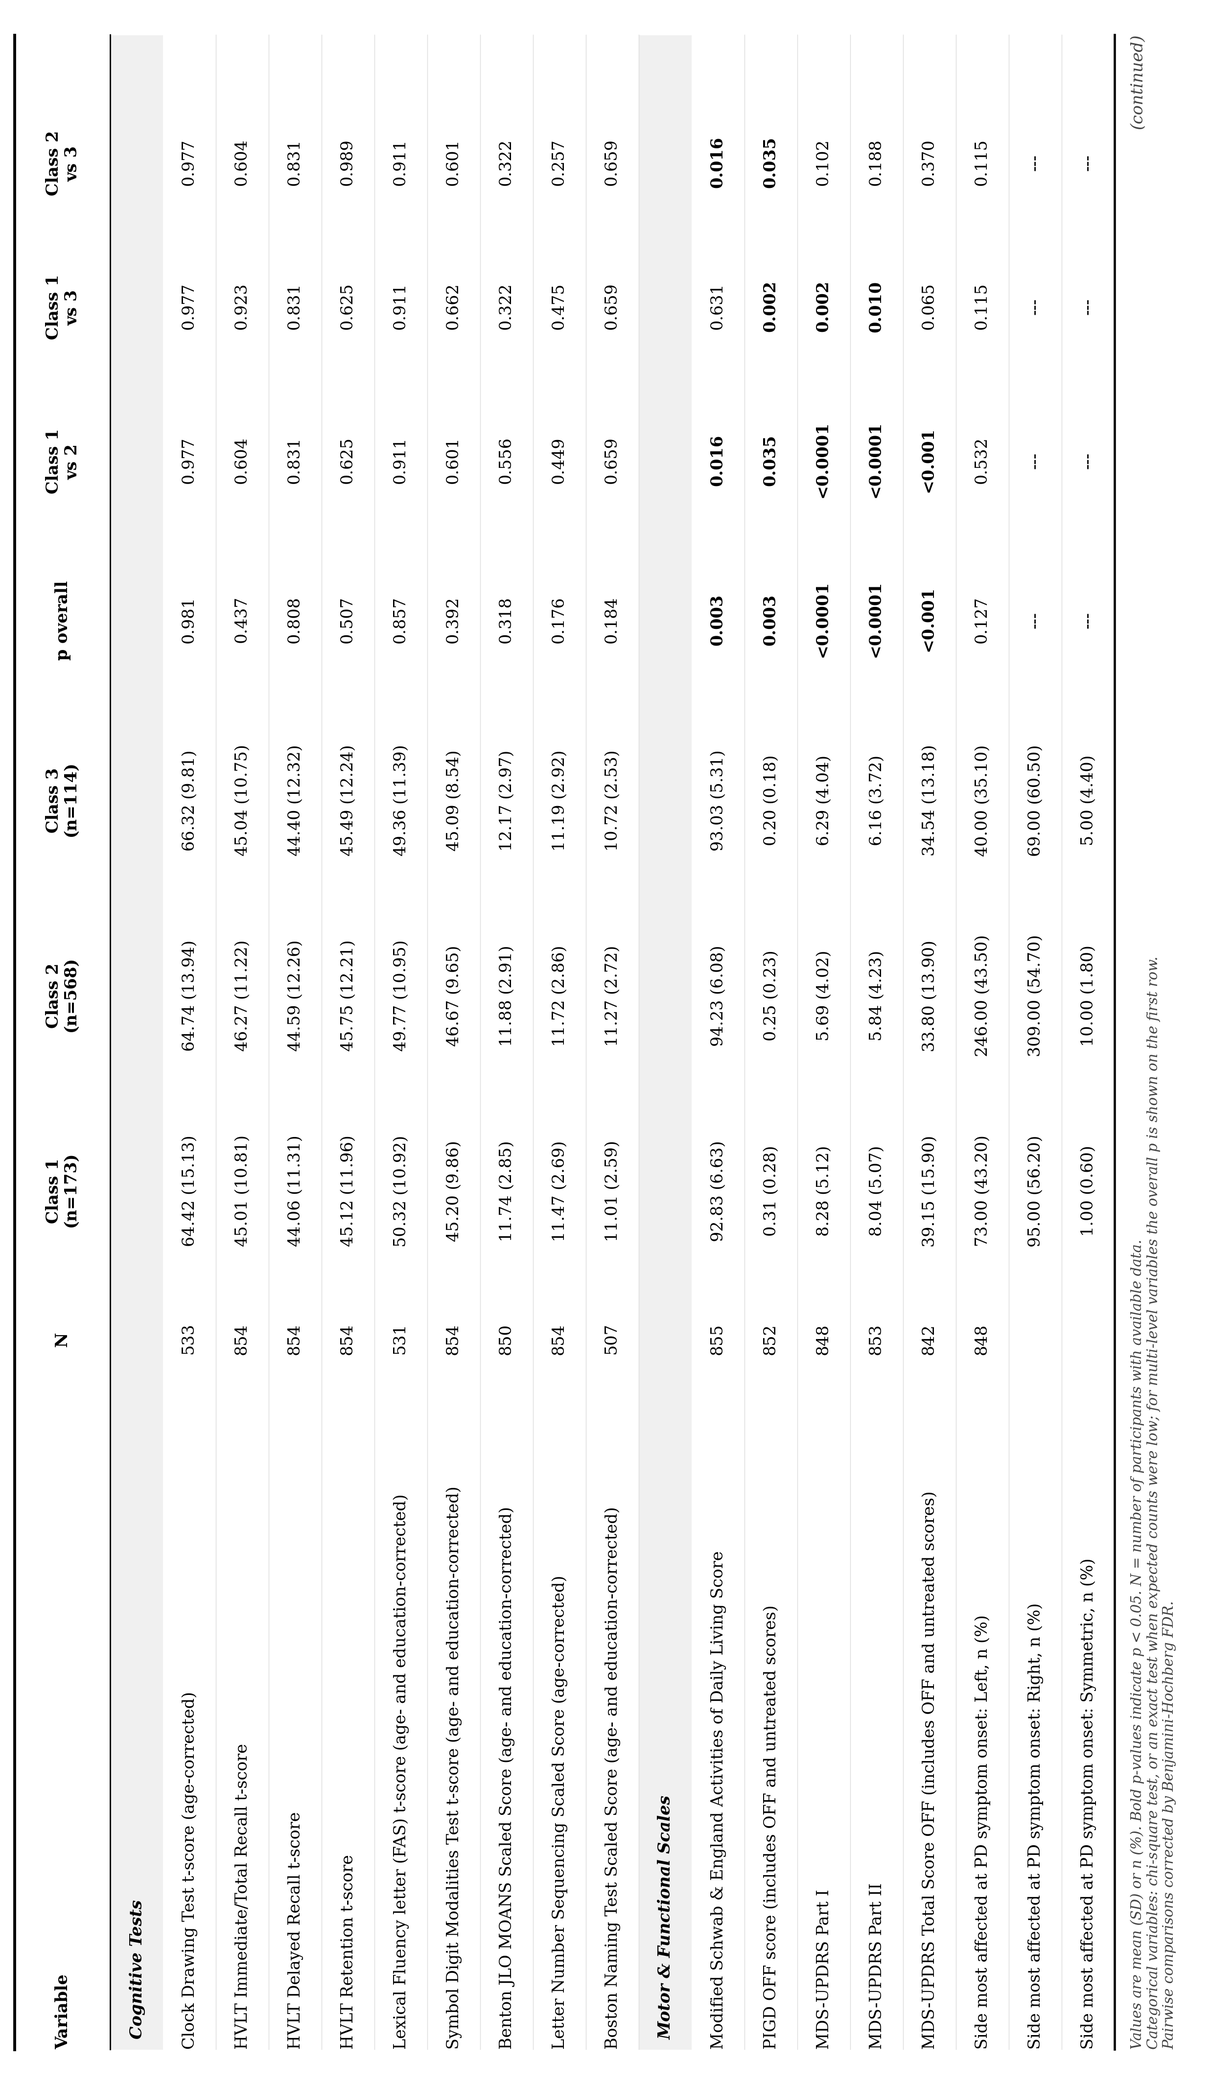
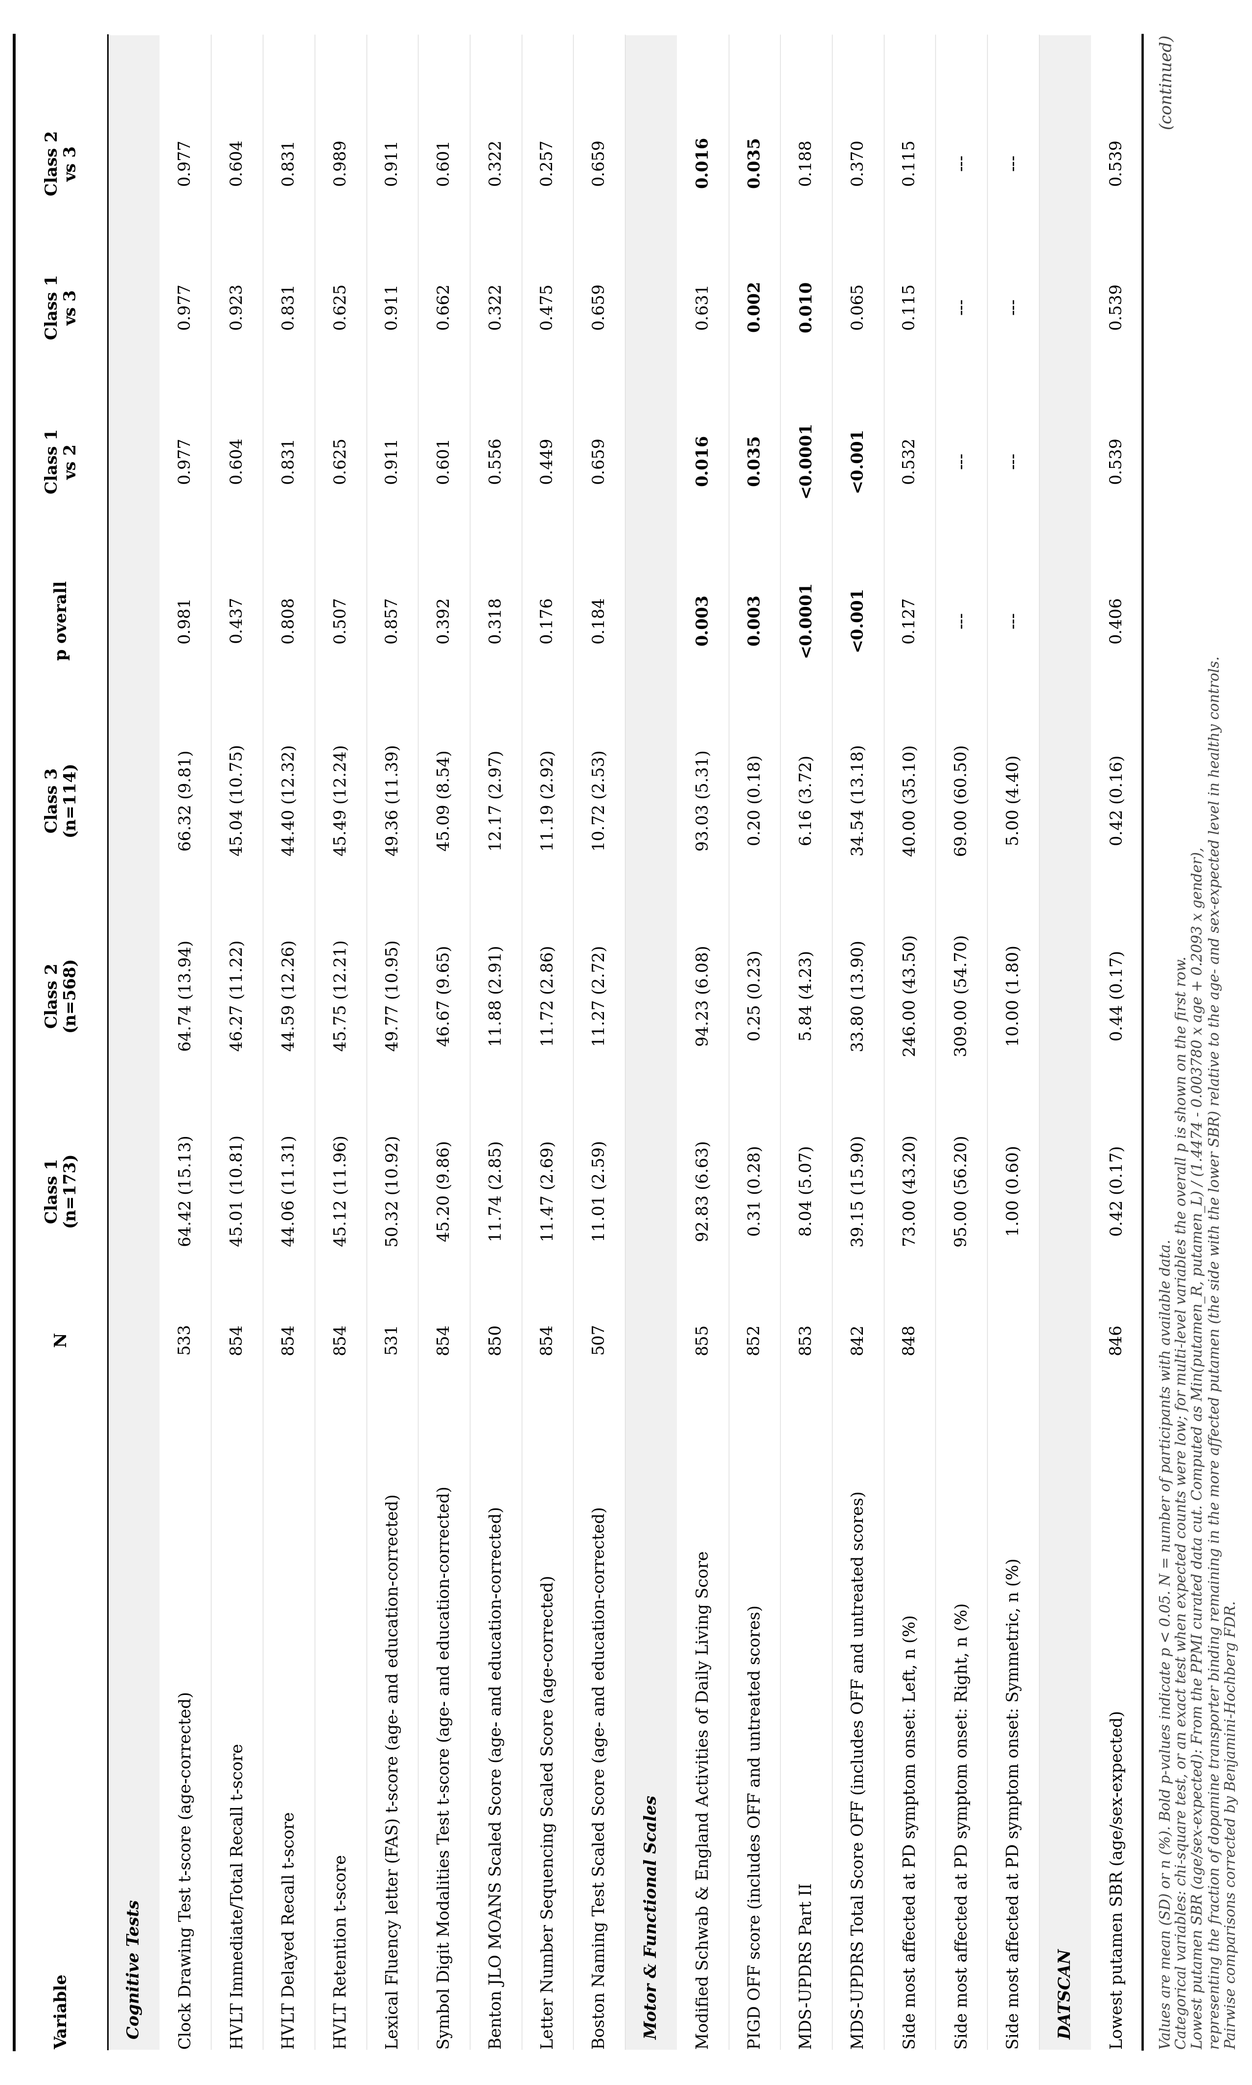
update baseline section, lcmm results, figure1

diff --git a/index.md b/index.md
@@ -22,7 +22,7 @@ Finally, we relate these emergent clinical phenotypes to targeted biological met
 
 <br/><br/>
 
-```{figure} figure.png
+```{figure} Figure.png
 :name: figure-main
 :alt: Multi-panel figure supporting the main findings
 
@@ -37,7 +37,7 @@ Finally, we relate these emergent clinical phenotypes to targeted biological met
 <br/><br/>
 
 ## Latent Class Identification and Trajectories
-Multivariate LCMM identified a three-class solution as optimal based on the lowest BIC, mean posterior probabilities, class size, and relative entropy criteria [Table 1](#main-model-selection), full methodological details are provided in [Supp.Methodology](#supp-methodology) : a Stable High-Burden class (Class 1, n = 173, 20.2%), a Low-Burden class (Class 2, n = 568, 66.4%), and an Increasing-Burden class (Class 3, n = 114, 13.3%). Observed mean trajectories are shown in [Figure 1 (A-D)](#figure-main). Class 1 maintained stably elevated REM Sleep Behavior Disorder Screening Questionnaire (RBDSQ) scores above the diagnostic cutoff (≥5) throughout follow-up; Class 2 remained consistently below the cutoff; Class 3 crossed the threshold at approximately Year 2 and approached Class 1 levels by Year 5. Montreal Cognitive Assessment (MoCA) declined in Class 3 from Year 3–4 onward while remaining stable in Classes 1 and 2; orthostatic systolic blood pressure drop (ΔSBP) and Movement Disorder Society Unified Parkinson's Disease Rating Scale Part III (UPDRS Part III) increased progressively across all classes, most prominently in Class 1. RBDSQ accounted for the largest proportion of between-class variance (39.1%), substantially exceeding ΔSBP (0.74%), MoCA (0.50%), and UPDRS-III (0.20%); the multivariate class structure showed strong agreement with the RBDSQ-only solution (ARI = 0.96; Cramér's V = 0.95) [Table S1](#supp-rbd-model-selection-2dp) [Table S2](#supp-rbd-class-comparison). Baseline characteristics are descriped in [Supp.Baseline](#supp-baseline).
+Multivariate LCMM identified a three-class solution as optimal based on the lowest BIC, mean posterior probabilities, class size, and relative entropy criteria ([Table 1](#main-model-selection)), full methodological details are provided in [Supp.Methodology](#supp-methodology) : a Stable High-Burden class (Class 1, n = 173, 20.2%), a Low-Burden class (Class 2, n = 568, 66.4%), and an Increasing-Burden class (Class 3, n = 114, 13.3%). Observed mean trajectories are shown in [Figure 1 (A-D)](#figure-main). Class 1 started with the highest REM Sleep Behavior Disorder Screening Questionnaire (RBDSQ) scores, which showed a slight decline by Year 5. Class 2 remained consistently below the cutoff throughout follow-up. Class 3 crossed the cutoff around Year 2 and reached levels comparable to Class 1 by Year 5. For orthostatic systolic blood pressure drop (ΔSBP), Classes 1 and 3 showed increases in later years, while Class 2 remained low. Movement Disorder Society–Unified Parkinson’s Disease Rating Scale Part III (UPDRS Part III) scores increased progressively in all classes, with the steepest rise observed in Class 1. Montreal Cognitive Assessment (MoCA) scores declined over time in Classes 1 and 3, eventually falling below the cutoff, whereas Class 2 remained relatively stable. RBDSQ accounted for the largest variance proportion(39.1%), substantially exceeding ΔSBP (0.74%), MoCA (0.50%), and UPDRS-III (0.20%); the multivariate class structure showed strong agreement with the RBDSQ-only solution (ARI = 0.96; Cramér's V = 0.95) ([Table S1](#supp-rbd-model-selection-2dp); [Table S2](#supp-rbd-class-comparison)). Baseline characteristics are descriped in [Supp.Baseline](#supp-baseline).
 
 
 <br/><br/>
@@ -59,11 +59,11 @@ Multivariate LCMM identified a three-class solution as optimal based on the lowe
 ## Baseline Neuroimaging and Biomarker Associations
 To ensure computation stability and numerical convergence, predictors were structured into MRI regional volumes (N = 474) and biofluid/clinical biomarkers (N = 240), with age, sex, and education as covariates. ORs for MRI metrics were standardized per standard deviation, as raw normalized brain volumes (often <0.1% of eTIV) produce ORs that are either extreme or indistinguishable from 1.0; clinical and biofluid markers remain on their raw scales. UPSIT, Specific Binding Ratios (SBR), and APOE were evaluated at their maximum available sample sizes, with the restricted combined model (N = 240) as a sensitivity analysis.
 
-To validate the clinical relevance, we compared baseline UPSIT scores as an external benchmark. Olfactory function was significantly lower in both the high-burden ($p$ = .005) and increasing-burden ($p$ = .002) groups [Table 2](#multinomial-reg-table). Aligning with the "Diffuse Malignant" phenotype [@fereshtehnejadNewClinicalSubtypes2015] and confirming the model's capacity to capture established biological patterns of PD heterogeneity.
+To validate the clinical relevance, we compared baseline UPSIT scores as an external benchmark. Olfactory function was significantly lower in both the high-burden ($p$ = .005) and increasing-burden ($p$ = .002) groups ([Table 2](#multinomial-reg-table)). Aligning with the "Diffuse Malignant" phenotype [@fereshtehnejadNewClinicalSubtypes2015] and confirming the model's capacity to capture established biological patterns of PD heterogeneity.
 
 
 ## Longitudinal Structural Change
-Longitudinal analysis revealed divergent temporal dynamics: while the high-burden class exhibited pronounced volumetric differences at baseline, the increasing-burden group was characterized by accelerated rates of structural change [Figure 1 (E)](#figure-main). We observed broad trends of accelerated ventricular and choroid plexus expansion in the latter; however, under rigorous False Discovery Rate correction (n = 382), only the inferior lateral ventricle slope survived the significance threshold ($q$ < .10) [Table 3](#lmm-slope-table).
+Longitudinal analysis revealed divergent temporal dynamics: while the high-burden class exhibited pronounced volumetric differences at baseline, the increasing-burden group was characterized by accelerated rates of structural change ([Figure 1 (E)](#figure-main)). We observed broad trends of accelerated ventricular and choroid plexus expansion in the latter; however, under rigorous False Discovery Rate correction (n = 382), only the inferior lateral ventricle slope survived the significance threshold ($q$ < .10) ([Table 3](#lmm-slope-table)).
 
 <br/><br/>
 
@@ -137,14 +137,14 @@ Longitudinal analysis revealed divergent temporal dynamics: while the high-burde
 <br/><br/>
 
 ## Early-Stage Subtype Prediction
-The XGBoost model achieved an AUC of 0.88 and cross-validated balanced accuracy of 0.73. Baseline RBDSQ was the single most discriminative predictor of class membership by both split frequency and information gain, tripling the next-ranked feature. Class-specific SHAP analysis [Figure 1 (F)](#figure-main) revealed that Class 1 was overwhelmingly driven by RBD severity; Class 2 showed a more distributed profile led by RBD, olfactory function, autonomic dysfunction, and anxiety; and Class 3 had the broadest SHAP profile with postural instability and dopaminergic imaging as notable contributors, consistent with its lower classification accuracy (F1 = 0.36). CSF α-synuclein SAA ranked prominently in native tree metrics but not in SHAP values, reflecting population-level rather than patient-level discriminative utility. 
+The XGBoost model achieved an AUC of 0.88 and cross-validated balanced accuracy of 0.73. Baseline RBDSQ was the single most discriminative predictor of class membership by both split frequency and information gain, tripling the next-ranked feature. Class-specific SHAP analysis ([Figure 1 (F)](#figure-main)) revealed that Class 1 was overwhelmingly driven by RBD severity; Class 2 showed a more distributed profile led by RBD, olfactory function, autonomic dysfunction, and anxiety; and Class 3 had the broadest SHAP profile with postural instability and dopaminergic imaging as notable contributors, consistent with its lower classification accuracy (F1 = 0.36). CSF α-synuclein SAA ranked prominently in native tree metrics but not in SHAP values, reflecting population-level rather than patient-level discriminative utility. 
 
 <br/><br/>
 
 # Discussion
 While RBD is a well-established prognostic marker, it is typically deployed as a static or binary baseline feature [@velucci2025nonmotor; @liuLongitudinalChangesParkinsons2021]. Our findings highlight its dynamic evolution: longitudinal RBDSQ trajectories contributed the majority of variance, driving the latent class structure and demonstrating that RBD-related heterogeneity persists well beyond the prodromal stage.
 
-This longitudinal approach yields markedly different prognostic insights compared to baseline clustering. For instance, the highly cited diffuse/malignant phenotype [@fereshtehnejadNewClinicalSubtypes2015] couples a wide breadth of severe baseline symptoms with rapid global progression. While our Class 1 shares this severe baseline multi-domain profile [Supp.Baseline](#supp-baseline) and resembles the RBD+ cluster [@velucci2025nonmotor], its symptom progression was not exclusively the most rapid. Instead, Class 3 demonstrated the steepest multi-domain deterioration despite much milder baseline symptoms. Because our multivariate LCMM models domain-specific trajectories rather than collapsing metrics into a single composite score, these results suggests that initial symptom burden and progression rate represent distinct, decoupled dimensions of PD heterogeneity.
+This longitudinal approach yields markedly different prognostic insights compared to baseline clustering. For instance, the highly cited diffuse/malignant phenotype [@fereshtehnejadNewClinicalSubtypes2015] couples a wide breadth of severe baseline symptoms with rapid global progression. While our Class 1 shares this severe baseline multi-domain profile ([Supp.Baseline](#supp-baseline)) and resembles the RBD+ cluster [@velucci2025nonmotor], its symptom progression was not exclusively the most rapid. Instead, Class 3 demonstrated the steepest multi-domain deterioration despite much milder baseline symptoms. Because our multivariate LCMM models domain-specific trajectories rather than collapsing metrics into a single composite score, these results suggests that initial symptom burden and progression rate represent distinct, decoupled dimensions of PD heterogeneity.
 
 Our trajectory-derived subtypes align more closely with longitudinal RBD progression studies than with traditional baseline clustering. Our data-driven classes mirror the a priori groups defined by @Ye2022RBDProgressionPD. Their largest group, the non-RBD-stable phenotype, matches our low-burden stable class (Class 2). Our Class 3 strongly aligns with their "late-RBD" group (12.1% of their cohort), showing a late-emerging probable RBD trajectory that crosses the clinical threshold around Year 2. This transitional, high-risk phenotype exhibits baseline olfactory impairment and orthostatic hypotension [@y.saitohImpactLateonsetREM]. Our high-burden Class 1 likely represents a combination of their pRBD-stable and pRBD-reversion phenotypes—supported by a slight reversion in Class 1's RBDSQ  during Years 4 and 5.
 
@@ -421,9 +421,11 @@ ROC curves for one-vs-rest on the test set
 ### Baseline Characteristics
 Baseline characteristics across the three classes were compared using the Kruskal–Wallis test for continuous variables. For categorical variables, the chi-square test was used by default; when expected cell frequencies were small (any expected count < 1, or more than 20% of cells with an expected count < 5), an exact test was applied instead. Specifically, Fisher's exact test was used for 2×2 tables and a Monte Carlo–based Fisher's exact test for larger R×C tables. Pairwise comparisons between classes were performed using Dunn's test for continuous variables and the same chi-square/exact-test procedure for categorical variables, with Benjamini–Hochberg false discovery rate (FDR) correction applied across the pairwise comparisons within each variable. Continuous variables are expressed as mean ± standard deviation (SD), and categorical variables as number (percentage).
 
-Baseline clinical characteristics showed that the three classes did not differ significantly in age at diagnosis or symptom onset, disease duration, education, Hoehn-Yahr stage, dominant side of symptom onset, motor severity (UPDRS Part III), global cognition (MoCA), or the battery of neuropsychological tests. Class 1 carried the heaviest overall disease burden, with the highest RBDSQ (8.65±1.83), SCOPA-AUT (14.33±7.49), STAI (66.69±18.46), GDS (2.78±2.58), ESS (6.42±3.83), QUIP (0.37±0.80), and MDS-UPDRS Part I (8.28±5.12), all significantly exceeding Class 2 (p < 0.05). Olfaction was impaired (UPSIT 20.33±7.76, p < 0.001 vs Class 2), and orthostatic blood pressure drop was elevated (ΔSBP 6.61±13.64, p < 0.05 vs Class 2), however these two features were most severe in Class 3. This group also had the greatest motor and functional impact, with the highest MDS-UPDRS Part II, PIGD score, lowest ADL score, and a marked male predominance (80.9% vs 61.4% in Class 2, p < 0.0001). Class 2 repesented the low-burden group, with mildest non-motor, motor and functional symptoms, serving as the reference against which the other two groups were defined. Class 3 occupied an intermediate position overall but carried a distinctive early signature. It showed the worst olfactory function (UPSIT 19.85±6.24, p < 0.001 vs Class 2), greater orthostatic blood pressure drop (ΔSBP 6.82±15.07), higher SCOPA-AUT (11.43±6.43, p = 0.002 vs Class 2), and elevated MDS-UPDRS Part I (6.29±4.04) and Part II (6.16±3.72) compared to Class 2, yet without prominent anxiety, depression, or sleepiness. This combination of hyposmia and emerging autonomic dysfunction distinguished Class 3 from the otherwise similar low-burden Class 2 at baseline.
+Baseline clinical characteristics showed that the three classes did not differ significantly in age at diagnosis or symptom onset, disease duration, education, Hoehn-Yahr stage, dominant side of symptom onset, motor severity (UPDRS Part III), global cognition (MoCA), or the battery of neuropsychological tests. Class 1 carried the heaviest overall disease burden, with the highest RBDSQ (8.65±1.83), SCOPA-AUT (14.33±7.49), STAI (66.69±18.46), GDS (2.78±2.58), ESS (6.42±3.83), QUIP (0.37±0.80), and MDS-UPDRS Part I (8.28±5.12), all significantly exceeding Class 2 (p < 0.05). Olfaction was impaired (UPSIT 20.33±7.76, p < 0.001 vs Class 2), and orthostatic blood pressure drop was elevated (ΔSBP 6.61±13.64, p = 0.006 vs Class 2), however these two features were most severe in Class 3. This group also had the greatest motor and functional impact, with the highest MDS-UPDRS Part II, PIGD score, lowest ADL score, and a marked male predominance (80.9% vs 61.4% in Class 2, p < 0.0001). Class 2 repesented the low-burden group, with overall mildest non-motor, motor and functional symptoms, serving as the reference against which the other two groups were defined. 
 
-Baseline biomarker and neuroimaging profiles were largely comparable across classes. CSF Aβ, total α-synuclein, phosphorylated tau, total tau, serum NfL, and APOE ε4 burden showed no significant differences. Serum urate differed modestly overall (p = 0.034), but pairwise comparisons were not significant. CSF α-synuclein seed amplification assay (SAA) status differed among classes, with Class 2 showing a higher proportion of SAA-negative cases and Classes 1 and 3 exhibiting higher SAA-positive rates (11.7% vs 5.0% and 4.6%). DATSCAN age-/sex-expected lowest putamen ratio was similar across groups, indicating comparable baseline nigrostriatal dopaminergic deficits. MRI volumetric analyses revealed several nominal overall differences, including thalamus (p = 0.005), putamen (p = 0.036), nucleus accumbens (p = 0.009), third ventricle (p = 0.024), total gray matter (p = 0.008), subcortical gray matter (p = 0.022), and cortex volume (p = 0.009), though pairwise comparisons did not survive FDR correction. Class 2 generally showed numerically larger brain volumes. Cortical thickness measures did not differ significantly across classes.
+Class 3 occupied an intermediate position overall, with a baseline profile that showed early signs of divergence from Class 2. Compared with Class 2, Class 3 had significantly worse olfactory function (UPSIT 19.85 ± 6.24, p < 0.001), higher autonomic burden (SCOPA-AUT 11.43 ± 6.43, p = 0.002), higher PIGD scores, lower ADL scores, and a greater male predominance (all p < 0.05). Although baseline RBDSQ was significantly higher than Class 2 (3.82 vs 2.77), it remained below the diagnostic cutoff. ΔSBP was numerically highest in Class 3 (6.82 ± 15.07) but did not differ significantly from Class 2. Compared with Class 1, Class 3 remained less globally impaired, with significantly lower RBDSQ, SCOPA-AUT, PIGD, and MDS-UPDRS Part I/II scores. Overall, Class 3 was characterized by selective early abnormalities, most notably hyposmia and autonomic dysfunction.
+
+Baseline biomarker and neuroimaging profiles were largely comparable across classes. CSF Aβ, total α-synuclein, phosphorylated tau, total tau, serum NfL, and APOE ε4 burden showed no significant differences. Although serum urate differed modestly among classes (p = 0.034), with Class 2 showing the lowest levels, this class also had the lowest proportion of male participants, so the difference may partly reflect sex imbalance. Pairwise comparisons between classes were not statistically significant. CSF α-synuclein seed amplification assay (SAA) status differed among classes (overall p = 0.014), with Class 2 showing a higher proportion of SAA-negative cases (11.7%) than Classes 1 (5.0%) and 3 (4.6%). Age-/sex-expected lowest putamen ratio was similar across groups, indicating comparable baseline nigrostriatal dopaminergic deficits. MRI revealed several nominal overall differences, including thalamus (p = 0.005), putamen (p = 0.036), nucleus accumbens (p = 0.009), third ventricle (p = 0.024), total gray matter (p = 0.008), subcortical gray matter (p = 0.022), and cortex volume (p = 0.009), though pairwise comparisons did not survive FDR correction. Class 2 generally showed numerically larger brain volumes. Cortical thickness measures did not differ significantly across classes.
 
 Detailed values for each variable are provided in the table below.
 
